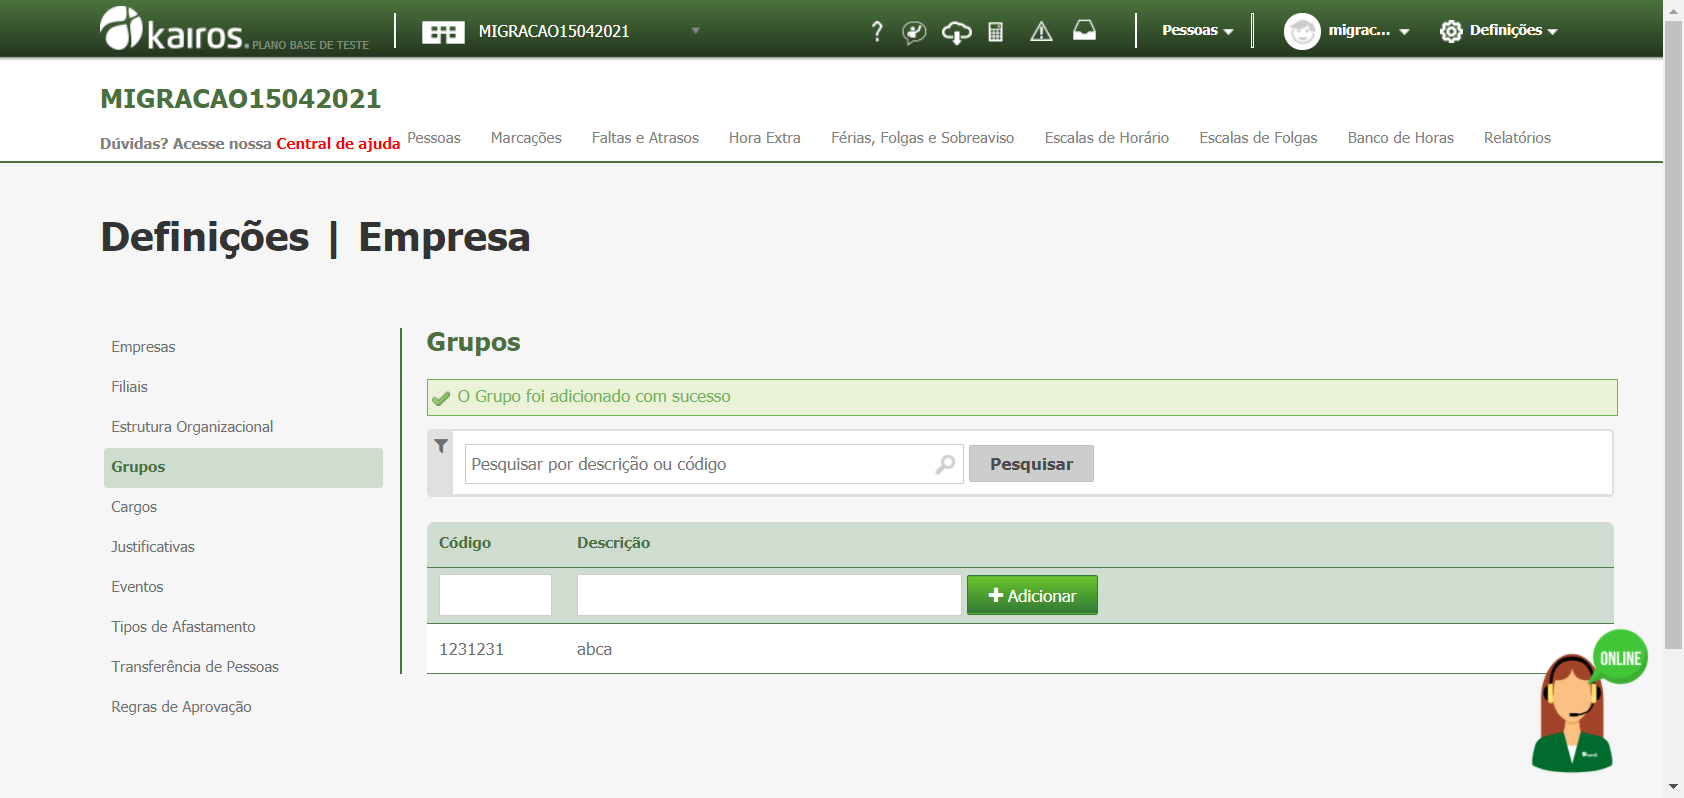
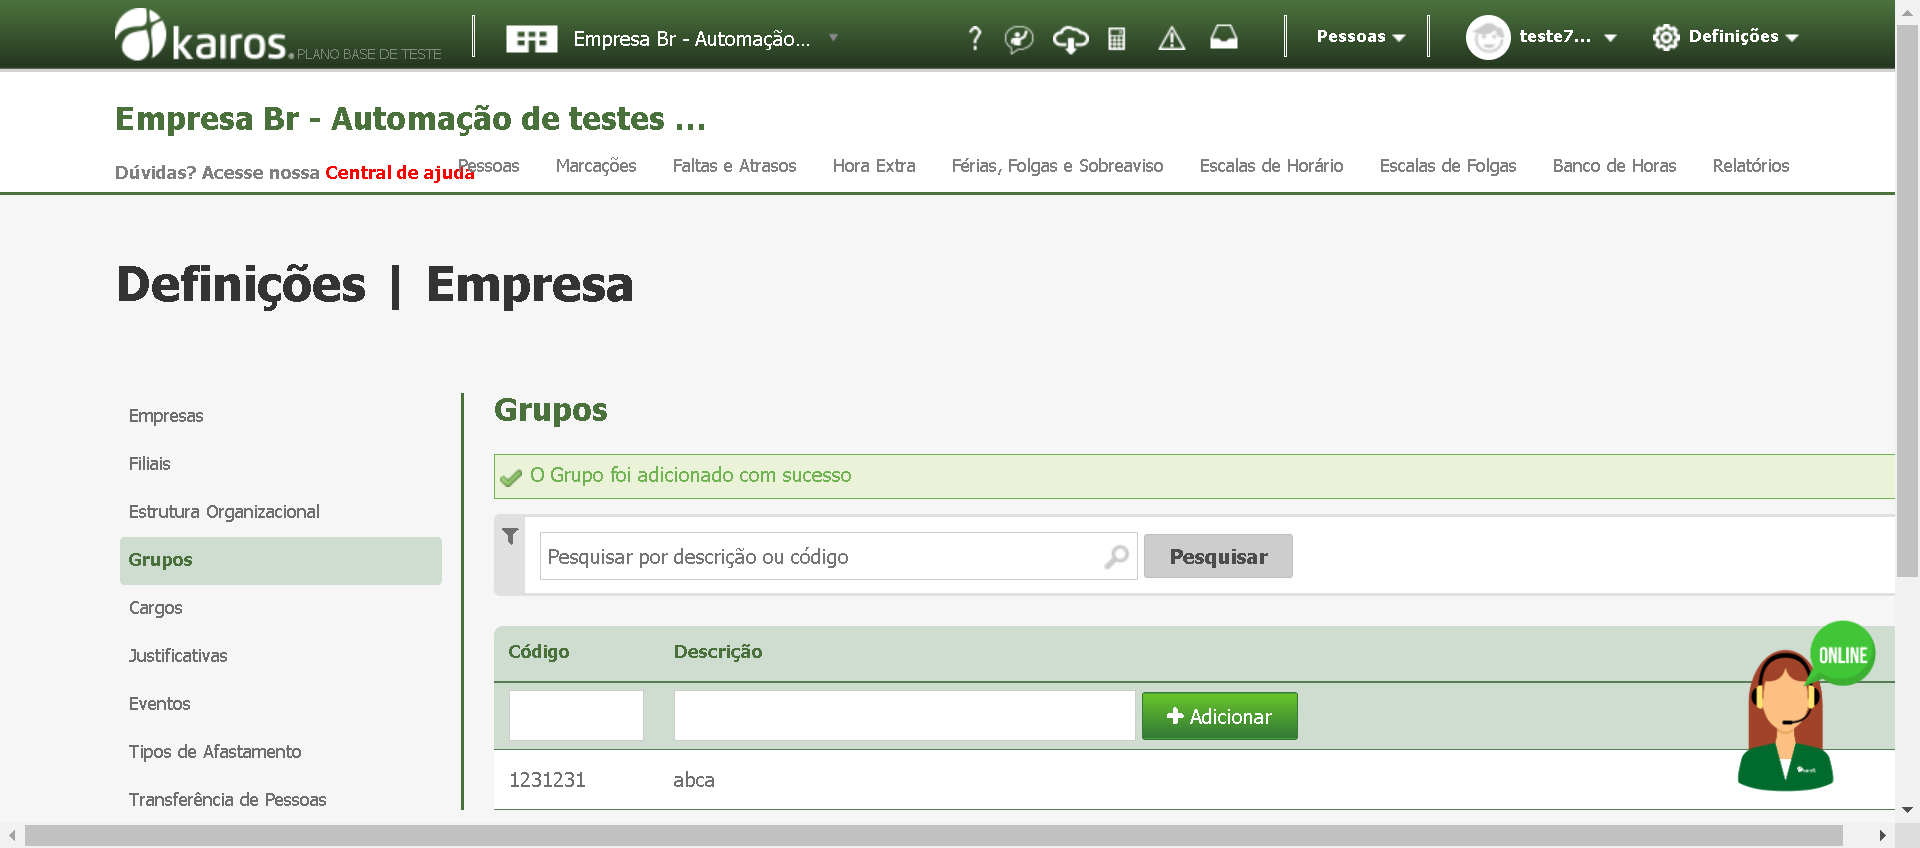
Mudança de URL de acesso ao kairos - aceite de cookies - alteração de acesso ao menu de grupos

diff --git a/Kairos_Testes_Integrados_BR_qcmaint/spec/cenarios_Integrados/4-def_emp_grupos_spec.rb b/Kairos_Testes_Integrados_BR_qcmaint/spec/cenarios_Integrados/4-def_emp_grupos_spec.rb
@@ -1,11 +1,25 @@
 describe 'grupos', :grupos do
-  before(:each) do
-    visit '/Dimep/Account/LogOn?ReturnUrl=%2F'
 
-    fill_in 'LogOnModel_UserName', with: 'migracao15042021@dimep.com'
-    fill_in 'LogOnModel_Password', with: '1'
+  before(:each) do
+    visit '/'
+    sleep 2
+
+    #Aceitando os cookies
+    find('div[class="cc-compliance"]', text: 'Aceitar e fechar').click
+    sleep 2
+    
+    fill_in 'LogOnModel_UserName', with: @login
+    fill_in 'LogOnModel_Password', with: @senha
     click_button 'Entrar'
-    visit '/admin/Grupos'
+    
+    # Acessando o cadastro estrutura organizacional pela navegação de telas
+    selecionar = find('div[id="toggleUserDefinitions"]')
+    selecionar.hover
+    sleep 3
+    
+    find('div[class="pointer DropDownHeaderElement"]', text: 'Empresa').click
+    find('div[id="MenuGrupos"]').click
+
   end
 
   it 'CT004 Inserir um novo grupo', :ct004_grupos do
